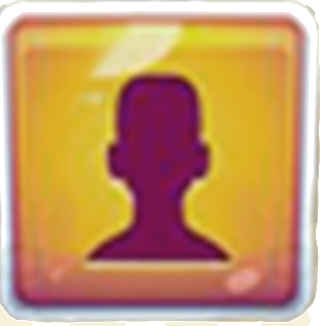
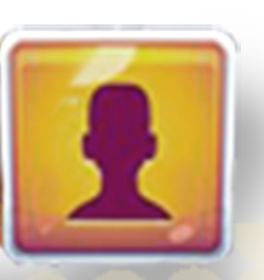
feat(train): update user profile

diff --git a/src/modules/home/profile/Profile.jsx b/src/modules/home/profile/Profile.jsx
@@ -1,90 +1,99 @@
 /* eslint-disable no-unused-vars */
 import './Profile.css';
 import { useEffect, useState } from 'react';
-import { connectWallet, getCurrentWalletConnected } from "../../../utils/wallet";
-import Web3Modal from "web3modal"
-import { ethers } from "ethers";
-import ENMTAddress from "../../../contracts/ENMT-address.json";
-import ENMTArtifact from "../../../contracts/ENMT.json";
+import { connectWallet, getCurrentWalletConnected } from '../../../utils/wallet';
+import Web3Modal from 'web3modal';
+import { ethers } from 'ethers';
+import ENMTAddress from '../../../contracts/ENMT-address.json';
+import ENMTArtifact from '../../../contracts/ENMT.json';
 
 const Profile = () => {
-  const [walletAddress, setWallet] = useState("");
-  const [balance, setBalance] = useState("");
+  const [walletAddress, setWallet] = useState('');
+  const [balance, setBalance] = useState('');
 
   useEffect(() => {
-    (async() => {
-      const {address} = await getCurrentWalletConnected();
-      setWallet(address)
+    (async () => {
+      const { address } = await getCurrentWalletConnected();
+      setWallet(address);
       addWalletListener();
-      updateBalance()
-    }) ()
+      updateBalance();
+    })();
   }, []);
-
 
   async function updateBalance() {
     const web3Modal = new Web3Modal({
-      network: "mainnet",
+      network: 'mainnet',
       cacheProvider: true,
-    })
+    });
 
-    const connection = await web3Modal.connect()
-    const provider = new ethers.providers.Web3Provider(connection)
-    const signer = provider.getSigner()
+    const connection = await web3Modal.connect();
+    const provider = new ethers.providers.Web3Provider(connection);
+    const signer = provider.getSigner();
     const contract = new ethers.Contract(ENMTAddress.ENMT, ENMTArtifact.abi, signer);
-   const {address} = await getCurrentWalletConnected();
+    const { address } = await getCurrentWalletConnected();
     const data = await contract.balanceOf(address);
-    
-    setBalance(data.toNumber())
-      return data.toNumber()
-  
-      
+
+    setBalance(data.toNumber());
+    return data.toNumber();
   }
 
-   // connect wallet 
+  // connect wallet
   const connectWalletPressed = async () => {
     const walletResponse = await connectWallet();
     setWallet(walletResponse.address);
   };
 
-  // wallet listener to update UI when wallet's state changes, 
-    // such as when the user disconnects or switches accounts.
+  // wallet listener to update UI when wallet's state changes,
+  // such as when the user disconnects or switches accounts.
   function addWalletListener() {
-      if (window.ethereum) {
-      window.ethereum.on("accountsChanged", (accounts) => {
-          if (accounts.length > 0) {
+    if (window.ethereum) {
+      window.ethereum.on('accountsChanged', (accounts) => {
+        if (accounts.length > 0) {
           setWallet(accounts[0]);
-        
-          } else {
-          setWallet("");
-          }
+        } else {
+          setWallet('');
+        }
       });
-      } 
+    }
   }
 
   // If window.ethereum has not been injected.
   if (window.ethereum === undefined) {
     return (
-    <div>
-      <a href="http://metamask.io" target="_blank" rel="noopener noreferrer"> 
-      No Ethereum wallet was detected. Install metamask</a>
-    </div>)
+      <div>
+        <a href="http://metamask.io" target="_blank" rel="noopener noreferrer">
+          No Ethereum wallet was detected. Install metamask
+        </a>
+      </div>
+    );
   }
-  
+
   return (
     <main className="profile">
       <div className="coin-img">
         <div className="coins">{balance}</div>
       </div>
-      <div className="account-img">
-      {walletAddress.length > 0 ? (
-        <div className="accounts">
-          {String(walletAddress).substring(0, 6) +
-              "..." +
-              String(walletAddress).substring(38)}
+      <div className="user">
+        <div className="account-img">
+          {walletAddress.length > 0 ? (
+            <div className="accounts">
+              {String(walletAddress).substring(0, 6) + '...' + String(walletAddress).substring(38)}
+            </div>
+          ) : (
+            <div
+              className="accounts"
+              role="button"
+              tabIndex={0}
+              onClick={connectWalletPressed}
+              onKeyDown={connectWalletPressed}
+            >
+              Connect Wallet
+            </div>
+          )}
         </div>
-         ) : (
-        <div className="accounts" role = "button" tabIndex={0} onClick={connectWalletPressed} onKeyDown={connectWalletPressed}>Connect Wallet</div>
-        )}
+        <div className="user-profile">
+          <div className="invisible">user</div>
+        </div>
       </div>
     </main>
   );

diff --git a/src/modules/home/profile/Profile.css b/src/modules/home/profile/Profile.css
@@ -14,13 +14,31 @@
   margin-right: 0.6rem;
 }
 
+.user {
+  display: flex;
+}
+
 .profile .account-img {
-  background-image: url('../../../assets/images/profile.png');
+  background-image: url('../../../assets/images/account.png');
+  background-repeat: no-repeat;
+  background-size: 100% 100%; /* previously contain */
+  width: 15rem;
+  /* height: 4rem; */
+  margin-left: 0.6rem;
+}
+
+.profile .user-profile {
+  background-image: url('../../../assets/images/user.png');
   background-repeat: no-repeat;
   background-size: contain;
   width: 15rem;
   height: 4rem;
-  margin-left: 0.6rem;
+}
+
+.profile .user-profile:hover {
+  cursor: pointer;
+  width: 15.2rem;
+  height: 4.2rem;
 }
 
 .coins {
@@ -31,17 +49,37 @@
 
 .accounts {
   position: relative;
-  top: 1.5rem;
+  top: 1.2rem;
   right: 3rem;
   cursor: pointer;
+  text-align: right;
+}
+
+.accounts:hover {
+  font-weight: bold;
+  color: rgb(26, 112, 26);
 }
 
 @media (max-width: 769px) {
   .profile {
     justify-content: center;
+    flex-direction: column;
   }
   .profile .account-img,
   .profile .coin-img {
     margin: 0;
+  }
+  .user {
+    justify-content: center;
+    padding: 0 1rem;
+  }
+
+  .invisible {
+    font-size: 2rem;
+  }
+
+  .profile .user-profile {
+    background-position: center center;
+    width: max-content;
   }
 }
